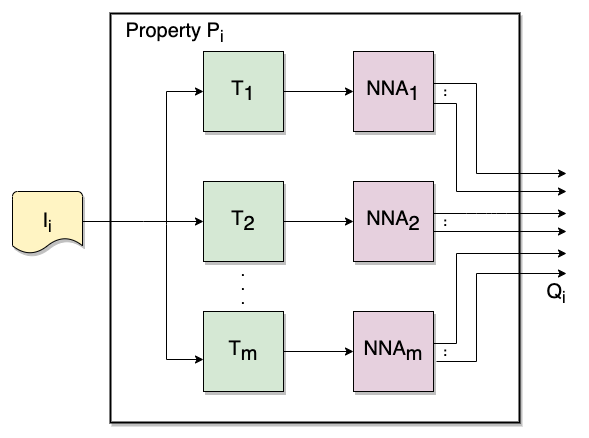
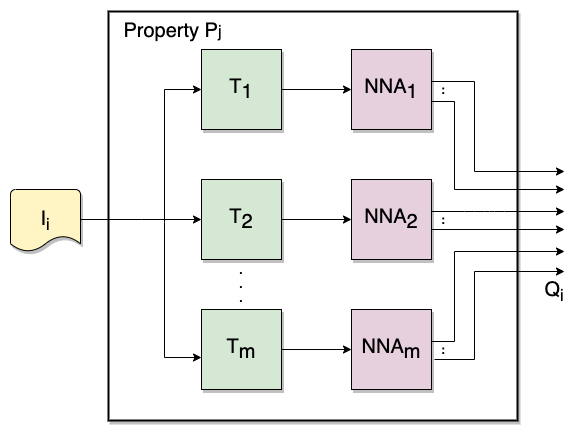
add images and diagrams

diff --git a/xai-abstract-summary.tex b/xai-abstract-summary.tex
@@ -40,11 +40,25 @@ explainable, artificial intelligence, machine learning
 
 \section{Introduction}
 
-Recent advances in Machine Learning (ML) have brought about wide adoption of ML algorithms for many applications.  Despite various successes, there is a reluctance to adopt ML in some applications because ML behaves like a black box.  Decision making by the black box is often not explainable to humans. 
+Recent advances in Machine Learning (ML) have brought about wide adoption of ML algorithms for many applications.  Despite various successes, there is a reluctance to adopt ML in some applications because ML behaves like a black box as depicted in Fig.~\ref{unexplainable}.  Decision making by the black box is often not explainable to humans. 
 
-This work approaches the widely studied problem of classifying images of handwritten digits into the ten decimal digit classes, zero through nine, from an Explainable Artificial Intelligence (XAI) perspective.  Our goal is to provide explainable ML classification, in the form of rationale, for classification decisions.  This is achieved using an architecture, with fine-grained classification decisions based on properties, and a methodology for constructing an explainable architecture.  Explainability is designed into and is an active component of our proposed architecture\cite{Arrieta2020ExplainableAI}. 
+GDPR \cite{gdpr2016} Article 13 (2)(f) indicates a data subject shall be provided with meaningful information about the logic involved in automated decision making or profiling.  There is debate over the right to an explanation when using ML in significant decisions\cite{selbst}.  The motivation for this work is the need for explainability in AI. 
 
-Using the MNIST handwritten digit database, we apply the methodology and architecture.  The approach is outlined herein along with test cases and examples of explainability.  Finally we present results and metrics to gauge accuracy and explainability.
+\begin{figure}[htbp]
+\centerline{\includegraphics[width=40mm]{./images/unexplainable.png}}
+\caption{An unexplainable NN.}
+\label{unexplainable}
+\end{figure}
+
+\begin{figure}[htbp]
+\centerline{\includegraphics[width=95mm]{./images/explainable.png}}
+\caption{Fine grained explainable NN classification based on properties.}
+\label{explainable}
+\end{figure}
+
+This work approaches the widely studied problem of classifying images of handwritten digits into the ten decimal digit classes, zero through nine, from an Explainable Artificial Intelligence (XAI) perspective.  Our goal is to provide explainable ML classification, in the form of the classification decision, confidence, and rationale in the problem domain that can be understood by a layperson.  This is achieved using an architecture, with fine-grained classification decisions based on explainable properties, and a methodology for constructing the explainable architecture.  Explainability is designed into and is an active component of our proposed architecture\cite{Arrieta2020ExplainableAI}.   We do not attempt to explain the internal structure of the ML model.  We treat ML models in the architecture as black boxes but through finer grained classification, we add an element of explainability as shown in Fig.~\ref{explainable}.
+
+Using the MNIST\cite{deng2012mnist} handwritten digit database, we apply the methodology and architecture.  The approach is outlined herein along with test cases and examples of explainability.  Finally we present results and metrics to gauge accuracy and explainability.
 
 This work aims to pose a means of explaining classification to a human.  We do not wish to compete with established algorithms that perform exceptionally well in classification of input \cite{keysers07} \cite{lecun98} \cite{schm2012}.  The effort required in applying the methodology in this work is significant compared to training a classifier that will act as a black box, and therefore not be explainable.
 
@@ -61,18 +75,18 @@ Distributed and fault tolerant systems research has provided several examples of
 \section{Overview}
 
  \begin{figure}[htbp]
-\centerline{\includegraphics[width=95mm]{./images/voting_prop_nn_2.png}}
+\centerline{\includegraphics[width=90mm]{./images/voting_prop_nn_2.png}}
 \caption{XAI Architecture Summary}
 \label{voting}
 \end{figure}
 
 The methodology for explainability is based upon the use of explainable properties and related transformations of the input to make distinct classification decisions for each property.  Those distinct classifications are input to a voter to provide a classification decision.  Rationale for the decision is composed from explainable property classifications and combined with the voter result to provide an explanation to a user. 
 
-The explainable architecture used in this work is depicted in Fig.~\ref{voting}.  $I_i$ represents the $i$th input to the architecture.  The architecture consists of Properties, a Voter Model Engine (VME),  and an Explainable Artificial Intelligence block.   Explainable properties are defined as descriptive qualities of a sample input that mean something to a user in the problem domain, especially to justify a classification decision.   Explainable properties $P_1$ through $P_n$ are outlined in the blue Property rectangle.  Each property represents logic for a classification based solely on the property.   $Q_i$ represents the $i$th property's classification output.
+The explainable architecture used in this work is depicted in Fig.~\ref{voting}.  $I_i$ represents the $i$th input to the architecture.  The architecture consists of Properties, a Voter Model Engine (VME),  and an Explainable Artificial Intelligence block.   Explainable properties are defined as descriptive qualities of a sample input that mean something to a user in the problem domain, especially to justify a classification decision.   Explainable properties $P_1$ through $P_n$ are outlined in the blue Property rectangle.  Each property represents logic for a classification based solely on the property.   $Q_j$ represents the $j$th property's classification output.
 
-The VME relies on classifications from the explainable properties, $Q_i$, and feedback from the XAI block to make a final classification decision.   We explore two voting model schemes detailed in section \ref{subsection:Voting}.
+The VME relies on classifications from the explainable properties, $Q_j$, and feedback from the XAI block to make a final classification decision.   We explore two voting model schemes detailed in section \ref{subsection:Voting}.
 
-The XAI block consists of a knowledgebase and logic to generate an explanation for the user.  Inputs to the XAI block are explainable property classifications, $Q_i$, and the VME decision.  The XAI knowledgebase contains information on explainable properties,  a store of training results, and metrics related to the effectiveness of properties.  The explanation provided by the XAI block consists of rationale that relate to the explainable properties contributing to the classification decision.
+The XAI block consists of a knowledgebase and logic to generate an explanation for the user.  Inputs to the XAI block are explainable property classifications, $Q_j$, and the VME decision.  The XAI knowledgebase contains information on explainable properties,  a store of training results, and metrics related to the effectiveness of properties.  The explanation provided by the XAI block consists of rationale that relate to the explainable properties contributing to the classification decision.
 
  \begin{figure}[htbp]
 \centerline{\includegraphics[width=90mm]{./images/property_transforms.png}}
@@ -80,7 +94,7 @@ The XAI block consists of a knowledgebase and logic to generate an explanation f
 \label{proptrans}
 \end{figure} 
 
-A property transformation is a modifying function applied to the input.  Transformations are used to identify the explainable property in the input.  Each property may have one or more transformations.   This is represented in Fig.~\ref{proptrans} where the outer square represents the $i$th property from Fig.~\ref{voting}.  The boxes labeled $T_x$ indicate the $x$th transformation of the input.  Transformed input is fed to a trained Neural Network Architecture (NNA) to make classification decisions.  Classification output then flows to the VME as shown in Fig.~\ref{voting}.
+A property transformation is a modifying function applied to the input.  Transformations are used to identify the explainable property in the input.  Each property may have one or more transformations.   This is represented in Fig.~\ref{proptrans} where the outer square represents the $j$th property from Fig.~\ref{voting}.  The boxes labeled $T_1$ through $T_m$ indicate $m$ transformations of the input related to property $j$.  Transformed input is fed to a trained Neural Network Architecture (NNA) to make classification decisions.  Classification output then flows to the VME as shown in Fig.~\ref{voting}.
 
 \section{Methodology}
  
@@ -126,7 +140,7 @@ Through manual review of samples in MNIST, we identified explainable properties 
 
 \subsection{Transformations}
  
-Digital image processing techniques that relate to and highlight the explainable properties were used as transforms.  The Transform column in Fig.~\ref{transsample} lists transformations for the various properties.  The figure also shows example MNIST digits, $I_i$, and their resulting transformed images, $T_i$.
+Digital image processing techniques that relate to and highlight the explainable properties were used as transforms.  The Transform column in Fig.~\ref{transsample} lists transformations for the various properties.  The figure also shows example MNIST digits, $I_i$, and their resulting transformed images, $T_j(I_i)$.
 
 \bgroup
 \renewcommand{\arraystretch}{1.8}
@@ -136,7 +150,7 @@ Digital image processing techniques that relate to and highlight the explainable
 \resizebox{\columnwidth}{!}{%
 \begin{tabular}{ c | p{0.23\linewidth} | p{0.23\linewidth} | ccc | }
 \cline{2-6}
-& Property & Transform & $I_i$ &  &  $T_i$ \\
+$P_j$ & Property & Transform & $I_i$ &  &  $T_j(I_i)$ \\
 \hline \hline
 $P_1$ & Stroke & Skeleton & \raisebox{-.5\height}{\includegraphics[width=8mm]{./digit-images/4-11.png}} & $\rightarrow$ & \raisebox{-.5\height}{\includegraphics[width=8mm]{./digit-images/4-11-skel.png}} \\
 \hline
@@ -184,17 +198,17 @@ After training the NNAs,  the transformed training data was presented to the NNA
 \subsection{Voting Schemes}
 \label{subsection:Voting}
 
-The first voting scheme we present is probabilistic.  In this scheme, we use the knowledgebase to identify each explainable property transformation's effectiveness to correctly predict a digit.   The effectiveness for an explainable property transformation, $i$, to select a particular digit, $d$,  is given by:
+The first voting scheme we present is probabilistic.  In this scheme, we use the knowledgebase to identify each explainable property transformation's effectiveness to correctly predict a digit.   The effectiveness for an explainable property transformation, $j$, to select a particular digit, $d$,  is given by:
 \begin{equation}\label{effectiveness}
-E_{i,d}  = \frac{|A|}{|B|}
+E_{j,d}  = \frac{|A|}{|B|}
 \end{equation}
-where $A$ is the set of correct classifications of explainable property transformation $i$ of the digit $d$ and $B$ is the set of elements of digit $d$.  The weight of the effectiveness for each digit, $d$, is:
+where $A$ is the set of correct classifications of explainable property transformation $j$ of the digit $d$ and $B$ is the set of elements of digit $d$.  The weight of the effectiveness for each digit, $d$, is:
 \begin{equation}\label{weight}
-W_d=\sum_i E_{i, d}
+W_d=\sum_j E_{j, d}
 \end{equation}
 The confidence for the digit $d$ is calculated by the VME and is given by:
 \begin{equation}\label{conf}
-C_x=\frac{W_d}{\sum\limits_jW_j}
+C_x=\frac{W_d}{\sum\limits_kW_k}
 \end{equation}
 The denominator is the sum of all weights for classes that were selected by a property.  If multiple digits are selected by the properties, the digit with the highest confidence will be chosen by the VME.
 
@@ -208,7 +222,7 @@ When evaluating early results, there was particular difficulty with the circle t
 
 Detailed examples from MNIST follow in this section by first providing aggregate property classification results for the digits five and six and then explainable results from three different input images.
 
-Tables ~\ref{table:digit5out} and ~\ref{table:digit6out} show the property transformation NNA output and statistics for properties for digits five and six.  The tables represent the results from reprocessing all of the training digits labeled five and six.  Columns two through ten of the tables represent the property transformations, $P_i$ from Fig.~\ref{transsample}.  The first row of the tables represents effectiveness, $E_{i,d}$, where $i$ is the property transform and $d$ is the digit.  The second, third and fourth rows represent the standard deviation, kurtosis, and skew of the digit outputs for each property.  The numbered rows in the tables represent the means of the property outputs for each digit.  The last two rows are the false positive and false negative rates.
+Tables ~\ref{table:digit5out} and ~\ref{table:digit6out} show the property transformation NNA output and statistics for properties for digits five and six.  The tables represent the results from reprocessing all of the training digits labeled five and six.  Columns two through ten of the tables represent the property transformations, $P_j$ from Fig.~\ref{transsample}.  The first row of the tables represents effectiveness, $E_{j,d}$, where $j$ is the property transform and $d$ is the digit.  The second, third and fourth rows represent the standard deviation, kurtosis, and skew of the digit outputs for each property.  The numbered rows in the tables represent the means of the property outputs for each digit.  The last two rows are the false positive and false negative rates.
 
 We observe that the Stroke property, $P_0$, performed very well in both digits.  The next highest performing property in both tables was the endpoint property, $P_5$, with 85.4\% and 93.3\% accuracy.  The digit six also had good classification results for the enclosed region properties, $P_7$ and $P_9$.  The digit six also performed better than the five in the properties related to the circle, $P_2$, $P_4$, and $P_5$.  The digit five had among the poorest performance as observed from the relatively low percent correct and high false negative rates.
 
@@ -219,7 +233,7 @@ We observe that the Stroke property, $P_0$, performed very well in both digits. 
 \begin{tabular}{ | c ||  c | c | c | c | c | c | c | c | c |}
 Digit 5 & $P_1$ & $P_2$ & $P_3$ & $P_4$ & $P_5$ & $P_6$ & $P_7$ & $P_8$ & $P_9$ \\
 \hline \hline
-$E_{i,5}$  & 100.0 & 14.2 & 5.7 & 20.8 & 21.5 & 85.4 & 3.8 & 70.0 & 5.5 \\
+$E_{j,5}$  & 100.0 & 14.2 & 5.7 & 20.8 & 21.5 & 85.4 & 3.8 & 70.0 & 5.5 \\
 \hline
 $\sigma$ & 0.300& 0.076& 0.082& 0.068& 0.089& 0.252& 0.074& 0.211& 0.077 \\
 \hline
@@ -353,13 +367,13 @@ Mean digit values from the Property NNAs are also represented  in Fig.~\ref{digi
 We next present three interesting MNIST digits and review the property classifications, property effectiveness,  confidence, and explainability.  Stepping through the procedures of the probabilistic voting scheme, we show the classification results for the digits as well as the explainability rationale from XAI.
 
 \begin{table}[htbp]
-\caption{Probabilistic voting and explainability for Example 1}
+\caption{Probabilistic voting, effectiveness, and explainability for Example 1}
 \centering
 \begin{tabular}{| c | c | c | c | c | p{0.08\linewidth} | p{0.08\linewidth} |}
 \cline{4-7}
 \multicolumn{3}{c}{} & \multicolumn{2}{|c|}{Effectiveness} & \multicolumn{2}{c|}{Explainability} \\
 \hline
- $P_i$ & Property & Vote & $E_{i,5}$ & $E_{i,6}$ & $X_5$ & $X_6$ \\
+ $P_j$ & Property & Vote & $E_{j,5}$ & $E_{j,6}$ & $X_5$ & $X_6$ \\
 \hline \cline{0-6}
 $P_1$ & Stroke & 5 & 1.000 &  & \checkmark &  \\ 
 \hline
@@ -388,21 +402,21 @@ $P_9$& Encl. Reg. &  &  &  &  &  \\
 \end{table}
 
 \begin{table}[htbp]
-\caption{Explainability for Example 1}
+\caption{Rationale for Example 1}
 \centering
-\begin{tabular}{| c | c | c |}
+\begin{tabular}{| p{0.04\linewidth} | p{0.14\linewidth} | p{0.65\linewidth} |}
 \hline
  $X_d$ & Confidence & Explainable Description \\
 \hline \cline{1-3}
-$X_5$ & 73\% & stroke, endpoint, and line properties \\ 
+$X_5$ & 73\% & Confidence is high for interpreting this digit as a five due to the stroke, endpoint, and line properties. \\ 
 \hline
-$X_6$ & 24\% & circle properties \\
+$X_6$ & 24\% & Confidence is low for interpreting this digit as a six due to circle properties. \\
 \hline
 \end{tabular}
 \label{table:exexample1}
 \end{table}
 
-The first example digit, labeled a five, is shown in Fig.~\ref{example1}.  Voting and explainability is detailed in Table ~\ref{table:example1}.  The property votes for this example are shown in the Vote column.  Empty cells are properties that did not have a sufficiently strong opinion on a particular digit.  I.e., no digit was above a threshold for that property.   The $E_{i,d}$ columns give the effectiveness of a property $i$ to correctly select digit $d$.  The effectiveness values are from the knowledgebase using eq. (\ref{effectiveness}).   The stroke $(P_1)$, endpoint $(P_6)$ and line $(P_8)$ properties suggest the digit is a five with effectiveness $E_{1,5}= 1.000$, $E_{6,5}=0.854$, and $E_{8,5}=0.700$.  Weight of effectiveness for the digit five is $W_5=2.554$, given by eq. (\ref{weight}).  The circle $(P_2)$ and $(P_5)$ properties suggest that the digit is a six with effectiveness $E_{2,6}=0.465$ and $E_{5,6}=0.490$  and a weight of $W_6=0.955$.  Taking the sum of all weights, $\sum\limits_i W_i=3.509$.  Confidence, as given by eq. (\ref{conf}), for the five, is given as $C_5=\frac{2.554}{3.509} = 73\%$.  Alternatively, six was suggested by properties where confidence is $C_6=\frac{0.955}{3.509}=27\%$.  Five wins because $C_6=27\% < 73\%=C_5$.  We also observe that the explainability, $X_x$, columns provide rationale for each of the digits that was selected.  The logic in the XAI block references property information from explainability column $X_5$, corresponding to the winning digit, and assembles rationale indicating that the five was selected because the stroke, endpoint, and line properties are consistent with a five. 
+The first example digit, labeled a five, is shown in Fig.~\ref{example1}.  Voting and explainability is detailed in Table ~\ref{table:example1}.  The property votes for this example are shown in the Vote column.  Empty cells are properties that did not have a sufficiently strong opinion on a particular digit.  I.e., no digit was above a threshold for that property.   The $E_{i,d}$ columns give the effectiveness of a property $j$ to correctly select digit $d$.  The effectiveness values are from the knowledgebase using eq. (\ref{effectiveness}).   The stroke $(P_1)$, endpoint $(P_6)$ and line $(P_8)$ properties suggest the digit is a five with effectiveness $E_{1,5}= 1.000$, $E_{6,5}=0.854$, and $E_{8,5}=0.700$.  Weight of effectiveness for the digit five is $W_5=2.554$, given by eq. (\ref{weight}).  The circle $(P_2)$ and $(P_5)$ properties suggest that the digit is a six with effectiveness $E_{2,6}=0.465$ and $E_{5,6}=0.490$  and a weight of $W_6=0.955$.  Taking the sum of all weights, $\sum\limits_i W_i=3.509$.  Confidence, as given by eq. (\ref{conf}), for the five, is given as $C_5=\frac{2.554}{3.509} = 73\%$.  Alternatively, six was suggested by properties where confidence is $C_6=\frac{0.955}{3.509}=27\%$.  Five wins because $C_6=27\% < 73\%=C_5$.  We also observe that the explainability, $X_x$, columns provide rationale for each of the digits that was selected.  The logic in the XAI block references property information from explainability column $X_5$, corresponding to the winning digit, and assembles rationale indicating that the five was selected because the stroke, endpoint, and line properties are consistent with a five. 
 
  \begin{figure}[htbp]
 \centerline{\includegraphics[width=15mm]{./digit-images/9-9.png}}
@@ -442,14 +456,14 @@ The first example digit, labeled a five, is shown in Fig.~\ref{example1}.  Votin
 The second example,  labeled a nine, is shown in Fig.~\ref{example2}.  Table ~\ref{table:example2} shows the property predictions, voting results, and rationale for example 3.  In this example three properties selected the digit nine and three other properties selected the digits three, five, and six.  The results from the VME for this example were that nine was selected with a $67\%$ confidence and an explanation that the stroke and enclosed region properties were consistent with those of a nine.  We noted on this example that it is surprising that none of the properties indicated an eight because of the example's similarity to a digit eight.  
 
 \begin{table}[htbp]
-\caption{Probabilistic voting and explainability for Example 2}
+\caption{Probabilistic voting, effectiveness, and explainability for Example 2}
 \centering
 \resizebox{\columnwidth}{!}{%
 \begin{tabular}{| c | c | c | c | c | c | c | c | c | c | c |}
 \cline{4-11}
 \multicolumn{3}{c}{} & \multicolumn{4}{|c|}{Effectiveness} & \multicolumn{4}{c|}{Explainability} \\
 \hline
- $P_i$ & Property & Vote & $E_{i,3}$ & $E_{i,5}$ & $E_{i,6}$ & $E_{i,9}$ & $X_3$ & $X_5$ & $X_6$ & $X_9$ \\
+ $P_j$ & Property & Vote & $E_{j,3}$ & $E_{j,5}$ & $E_{j,6}$ & $E_{j,9}$ & $X_3$ & $X_5$ & $X_6$ & $X_9$ \\
 \hline \cline{0-10}
 $P_1$ & Stoke & 9 &  &  &  & 1.00 &  &  &  & \checkmark \\ 
 \hline
@@ -479,19 +493,19 @@ $P_9$ & Encl. Reg. & 9 &  &  &  & 0.821 &  &  &  & \checkmark \\
 \end{table}
 
 \begin{table}[htbp]
-\caption{Explainability for Example 2}
+\caption{Rationale for Example 2}
 \centering
-\begin{tabular}{| c | c | c |}
+\begin{tabular}{| p{0.04\linewidth} | p{0.14\linewidth} | p{0.65\linewidth} |}
 \hline
  $X_d$ & Confidence & Explainable Description \\
 \hline \cline{1-3}
-$X_3$ & 8\% & circle property \\ 
+$X_9$ & 67\% & Confidence is high for interpreting this digit as a nine due to the stroke and enclosed region properties. \\
 \hline
-$X_5$ & 1\% & crossing property \\
+$X_6$ & 24\% & Confidence is low for interpreting this digit as a six due to the endpoint property.  \\
 \hline
-$X_6$ & 24\% & endpoint property \\
+$X_3$ & 8\% & Confidence is low for interpreting this digit as a three due to the circle circle property.  \\ 
 \hline
-$X_9$ & 67\% & stroke and enclosed region properties \\
+$X_5$ & 1\% & Confidence is almost zero for interpreting this digit as a five due to the crossing property. \\
 \hline
 \end{tabular}
 \label{table:exexample2}
@@ -533,13 +547,13 @@ $X_9$ & 67\% & stroke and enclosed region properties \\
 %\end{table}
 
 \begin{table}[htbp]
-\caption{Probabilistic voting and explainability for Example 3}
+\caption{Probabilistic voting, effectiveness, and explainability for Example 3}
 \centering
 \begin{tabular}{| c | c | c | c | c | p{0.08\linewidth} | p{0.08\linewidth} |}
 \cline{4-7}
 \multicolumn{3}{c}{} & \multicolumn{2}{|c|}{Effectiveness} & \multicolumn{2}{c|}{Explainability} \\
 \hline
- $P_i$ & Property & Vote & $E_{i,2}$ & $E_{i,3}$ & $X_2$ & $X_3$ \\
+ $P_j$ & Property & Vote & $E_{j,2}$ & $E_{j,3}$ & $X_2$ & $X_3$ \\
 \hline \cline{0-6}
 $P_1$ & Stroke & 2 & 1.000 &  & \checkmark &  \\ 
 \hline
@@ -568,15 +582,15 @@ $P_9$ & Encl. Reg. &  &  &  &  &  \\
 \end{table}
 
 \begin{table}[htbp]
-\caption{Explainability for Example 3}
+\caption{Rationale for Example 3}
 \centering
-\begin{tabular}{| c | c | c |}
+\begin{tabular}{| p{0.04\linewidth} | p{0.14\linewidth} | p{0.65\linewidth} |}
 \hline
  $X_d$ & Confidence & Explainable Description \\
 \hline \cline{1-3}
-$X_2$ & 79\% & stroke, circle, endpoint, and line properties \\ 
+$X_2$ & 79\% & Confidence is high for interpreting this digit as a two due to stroke, circle, endpoint, and line properties. \\ 
 \hline
-$X_3$ & 21\% & circle properties \\
+$X_3$ & 21\% & Confidence is low for interpreting this digit as a three due to circle properties. \\
 \hline
 \end{tabular}
 \label{table:exexample3}
@@ -585,7 +599,7 @@ $X_3$ & 21\% & circle properties \\
 The third example handwritten digit, labeled a two, is shown in Fig. ~\ref{example3} and Table ~\ref{table:example3}.  In this case,  the VME selects the digit two with a $79\%$ confidence due to stroke, circle, endpoint, and line properties consistent with the digit two.  A three was suggested with $21\%$ confidence due to circle properties.  We noted in this example that classification results from circle properties had conflicting votes.  $P_2$ and $P5$ voted for three while $P_4$ voted for two.
 
 \begin{table}[htbp]
-\caption{NNA VME results for examples}
+\caption{NN VME results for examples 1-3}
 \centering
 \begin{tabular}{| c | c | c | c |}
 \hline
